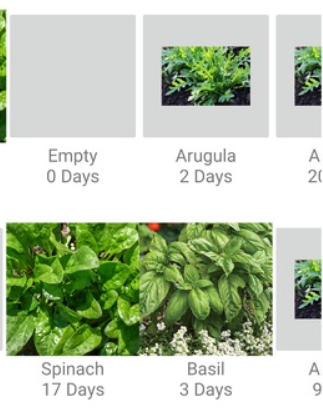
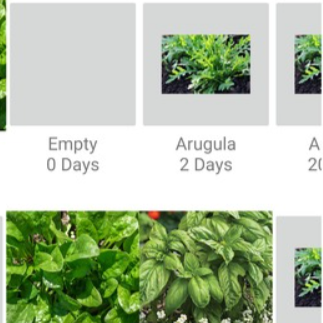
Edited Photos

diff --git a/src/App.js b/src/App.js
@@ -13,10 +13,10 @@ import "./styles/Container.css"
 
 function App() {
   var img1landing =  "https://s-hliao.github.io/portfolio-react/portfolio-landing.jpg"
-  var img2landing =  "https://s-hliao.github.io/portfolio-react/app-landing.jpg"
+  var img2landing =  "https://s-hliao.github.io/portfolio-react/app-landing.png"
   var img3landing =  "https://s-hliao.github.io/portfolio-react/battlecode-landing.png"
 
-  var img3landing =  "https://s-hliao.github.io/portfolio-react/autorally.jpg"
+  var img4landing =  "https://s-hliao.github.io/portfolio-react/autorally.jpg"
   
   
   return (
@@ -36,9 +36,7 @@ function App() {
             <Hook displayImage={img2landing}/>
             <Hook displayImage={img3landing}/>
           </tr>
-          <tr>
-            <Hook/>
-          </tr>      
+    
         </Table>  
       </Block>
       <div class="section-container container-col divider">
@@ -48,7 +46,7 @@ function App() {
       <Block title = "Research" id="research">
         <Table>
           <tr>
-            <Hook/>
+            <Hook displayImage={img4landing}/>
           </tr> 
         </Table>
       </Block>

diff --git a/src/components/Hook.js b/src/components/Hook.js
@@ -1,6 +1,8 @@
 import React, {useState} from "react";
 import 'bootstrap/dist/css/bootstrap.min.css';
 import {Modal, Button} from 'react-bootstrap';
+import '../styles/Hook.css'
+import '../styles/Container.css'
 
 export default function Hook(props){
 
@@ -12,7 +14,9 @@ export default function Hook(props){
         <td>
 
             <Button className="btn-modal" onClick={handleShow}>
-                <img src={props.displayImage} alt="Button image"/>
+                <div class="container-col" id="button-container">
+                    <img class="button-img" src={props.displayImage} alt="Button image"/>
+                </div>
             </Button>
 
             <Modal show={show} onHide={handleClose} size="sm">

diff --git a/src/styles/Hook.css b/src/styles/Hook.css
@@ -1,0 +1,19 @@
+.button-img {
+    max-height: 20vw;
+    
+}
+
+
+
+th{
+    padding-left: 30px;
+    padding-right: 30px;
+    
+  }
+
+  td{
+    width: 30%;
+    height: 30vh;
+    padding-left: 30px;
+    padding-right: 30px;
+  }
